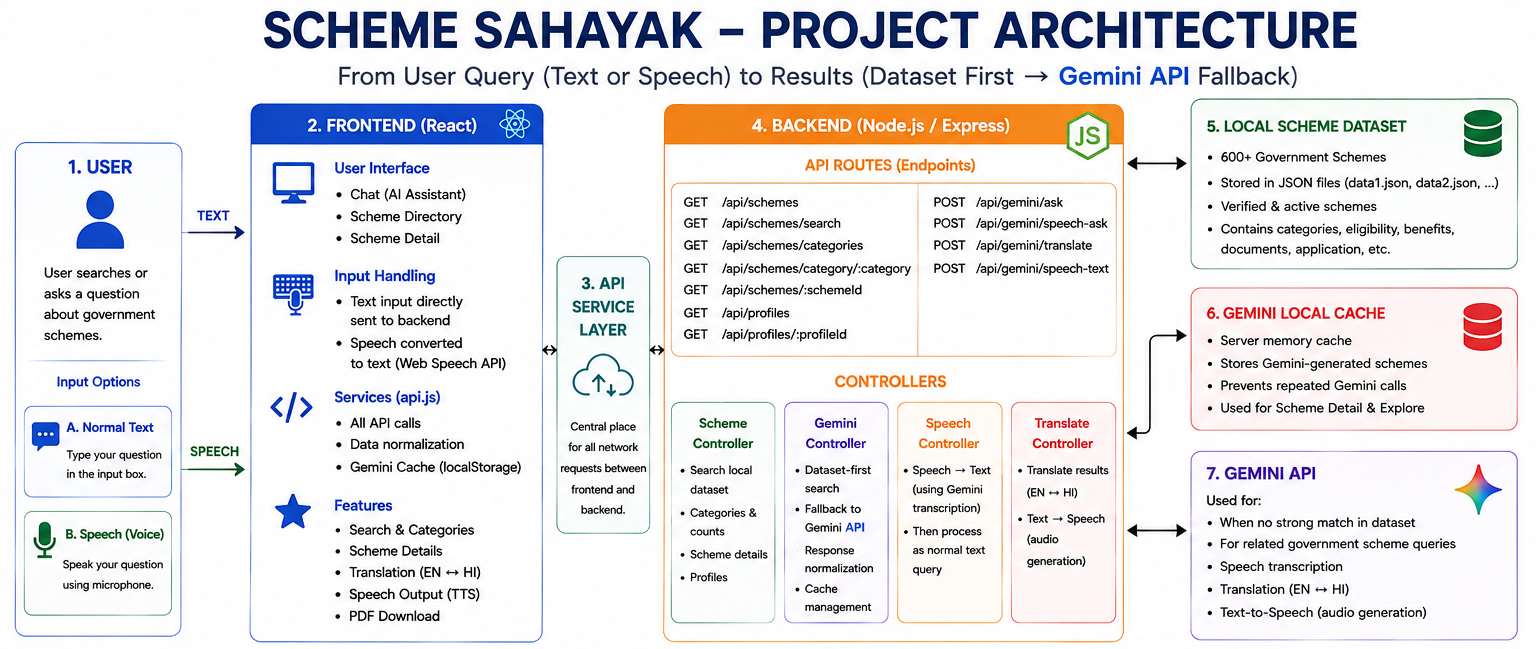
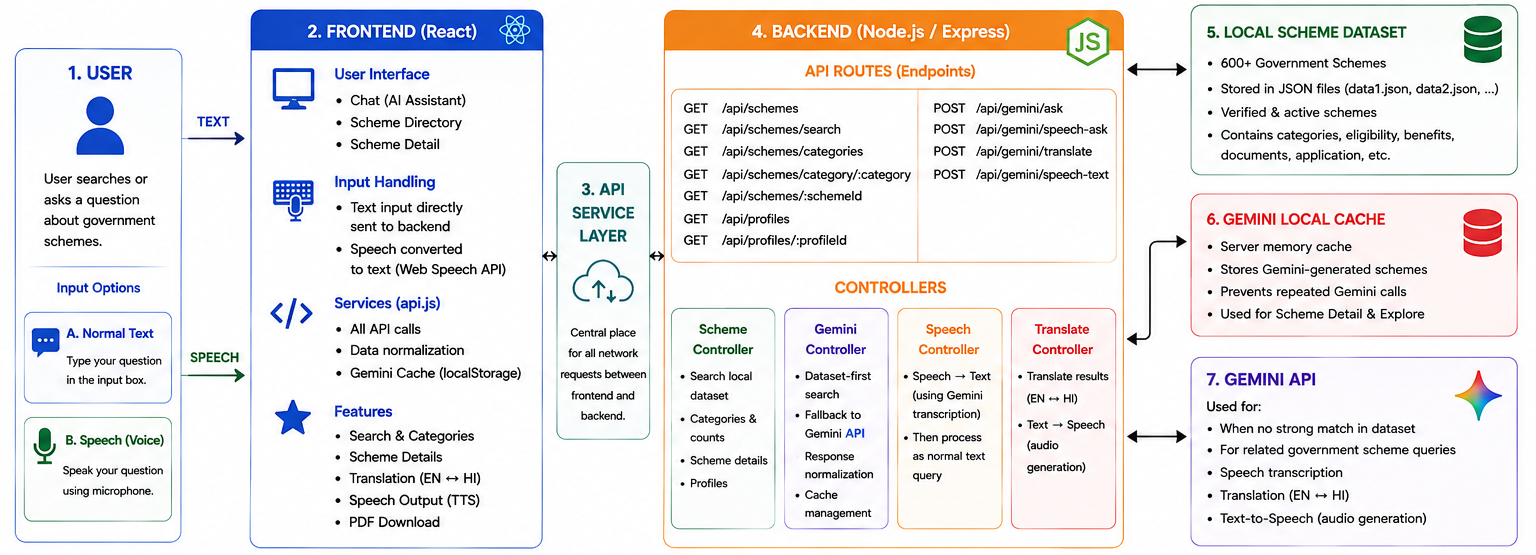
better diagrams

diff --git a/frontend/src/services/api.js b/frontend/src/services/api.js
@@ -150,8 +150,8 @@ const CATEGORY_ICONS = {
   education: '🎓',
   healthcare: '🏥',
   health: '🏥',
-  women: '👩',
-  'women & child': '👩',
+  women: '🚺',
+  'women & child': '👩🍼',
   housing: '🏠',
   'senior citizen': '👴',
   'senior citizens': '👴',
